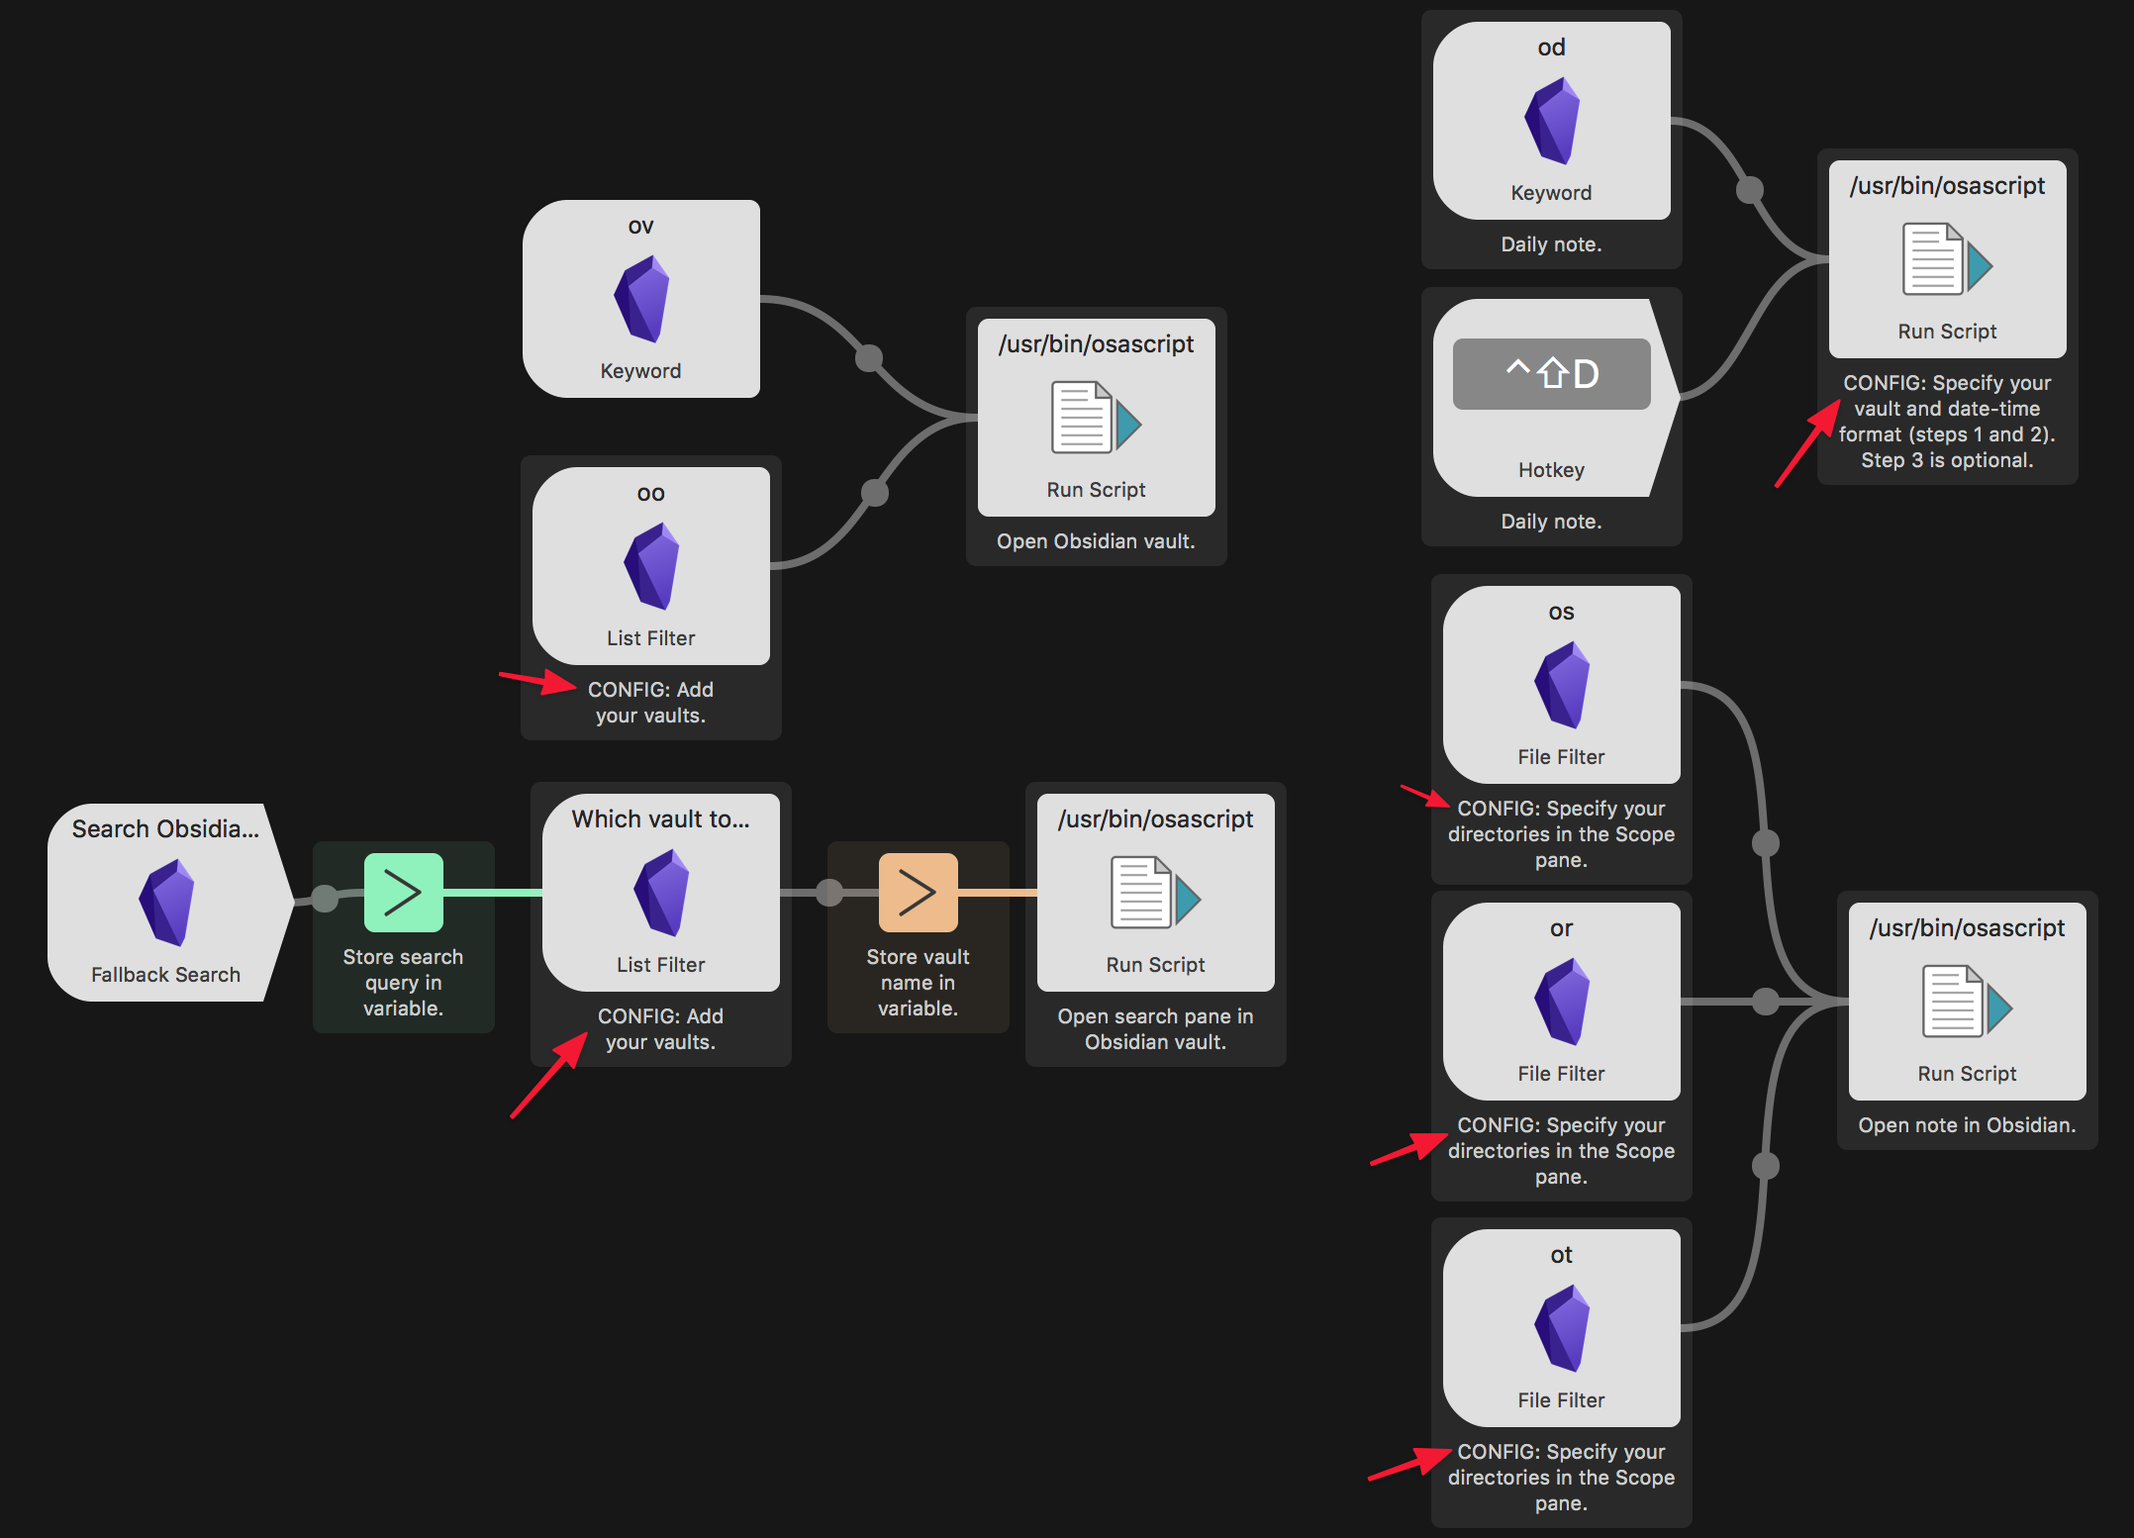
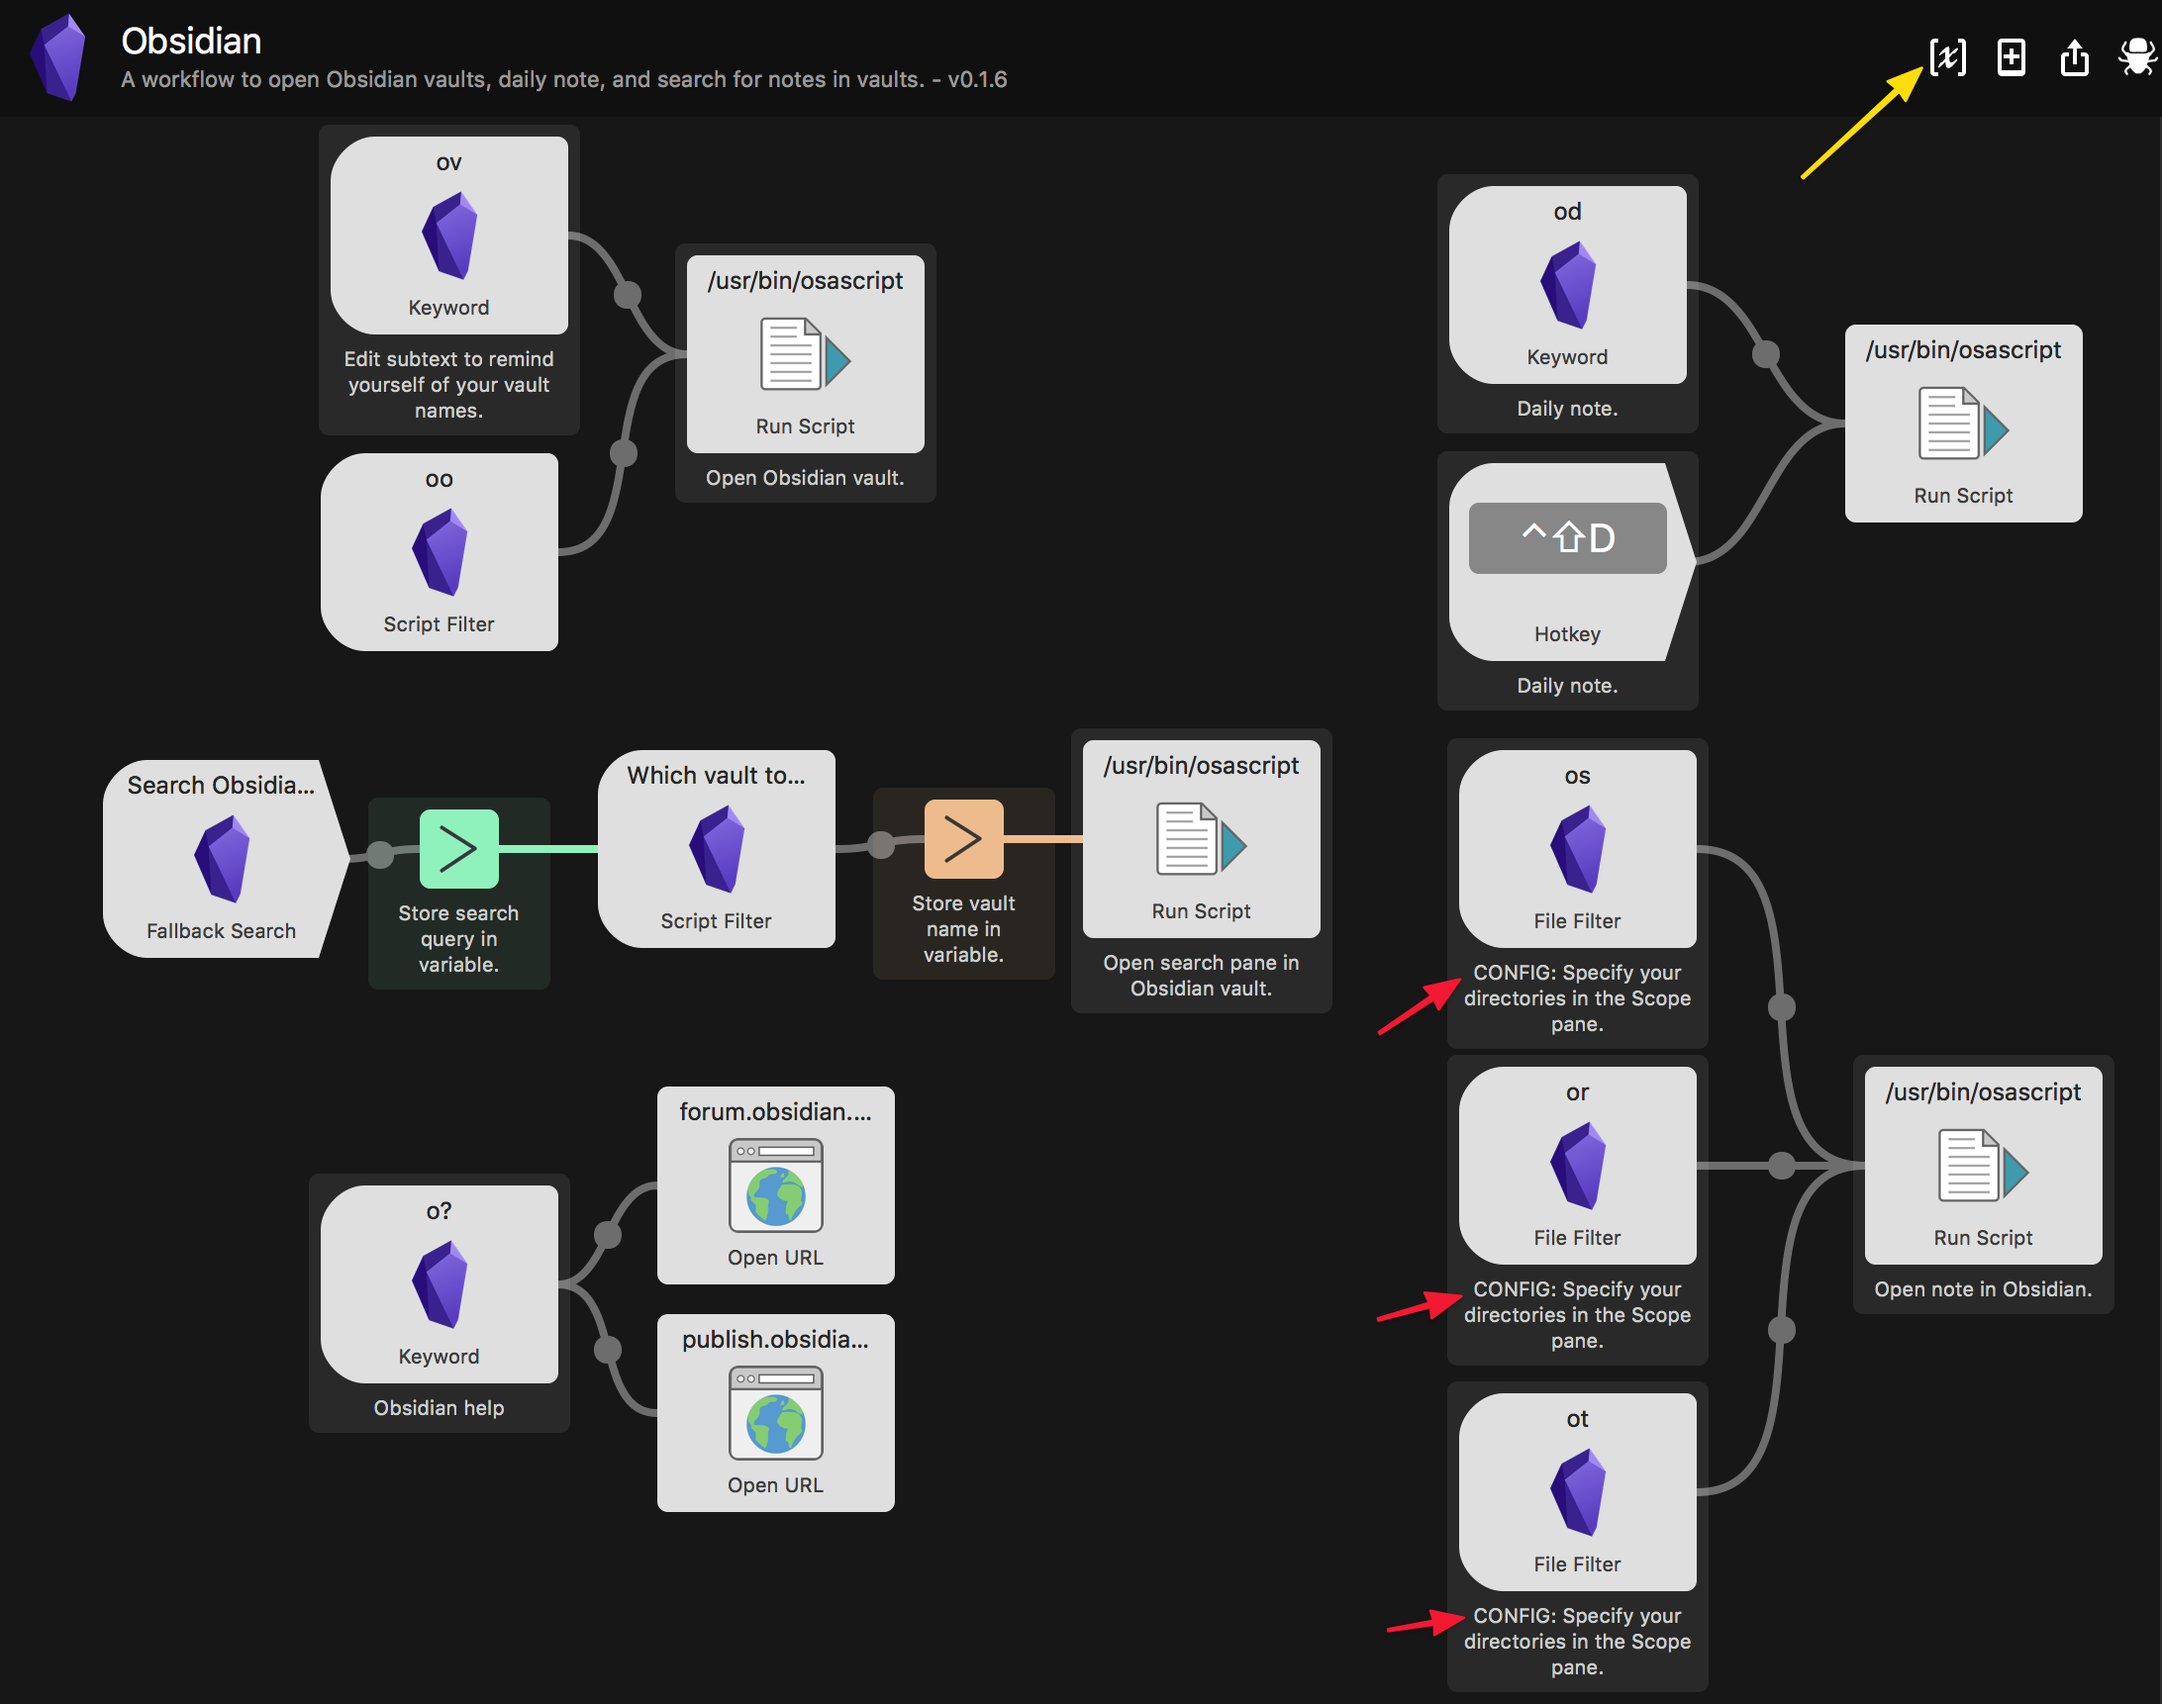
update readme

diff --git a/README.md b/README.md
@@ -4,18 +4,16 @@
 
 # Alfred workflow for Obsidian
 
-This simple [Alfred](https://www.alfredapp.com/) workflow uses [Obsidian](https://obsidian.md/)'s [URI scheme](https://publish.obsidian.md/help/Advanced+use/Using+obsidian+URI) (available in version 0.8.15 and above) and JXA actions/scripts (thanks to [@hjklapp](https://github.com/hjklapp)) to open notes in their vaults. This workflow has been tested in Obsidian 0.9.7.
+This simple [Alfred](https://www.alfredapp.com/) workflow uses [Obsidian](https://obsidian.md/)'s [URI scheme](https://publish.obsidian.md/help/Advanced+use/Using+obsidian+URI) (available in version 0.8.15 and above) and JXA actions/scripts (thanks to [@hjklapp](https://github.com/hjklapp)) to open notes in their vaults. This workflow has been tested in Obsidian 0.9.16.
 
 Available Alfred features/keywords (contributors in parentheses)
 - Open a vault: `ov`,`oo` ([@hjklapp](https://github.com/hjklapp))
 - Search in vault(s): `os`, `or`, `ot`
 - Open a daily note in a vault: `od` ([@technicalpickles](https://github.com/technicalpickles), [@luckman212](https://github.com/luckman212))
 - Fallback search when there are no results ([@technicalpickles](https://github.com/technicalpickles))
+- Get help by opening [help vault](https://publish.obsidian.md/help/Index) and [forum](https://forum.obsidian.md/): `o?` 
 
-Future features
-- Use workflow/environment variables to save vault names, daily note vault, date-time format etc., so there's no need to configure/edit the osascripts. See [issue](https://github.com/hauselin/obsidian-alfred/issues/8#issue-747087640). Will replace Alfred file filters with script filters.
-
-# Installation
+## Installation
 
 Download the [Obsidian.alfredworkflow](https://github.com/hauselin/obsidian-alfred/raw/master/Obsidian.alfredworkflow) file. Add to Alfred and enjoy the workflow! Only tested in Alfred 4.
 
@@ -23,32 +21,32 @@ Download the [Obsidian.alfredworkflow](https://github.com/hauselin/obsidian-alfr
 
 ### Open a vault: `ov`
 
-To open one of your many Obsidian vaults, type `ov your_vault_name`. You can change the keyword input subtext to remind yourself of the names of your vaults. Double-click **ov Keyword** to change the Subtext field.
+To open one of your many Obsidian vaults, type `ov your_vault_name`. If you vault name is `my notes`, you type `ov my notes`. You can change the keyword input subtext to remind yourself of the names of your vaults. Double-click **ov Keyword** to change the Subtext field.
 
-## Features that require some simple setting up
+## Features that require some basic setting up
 
-If you see **CONFIG** anywhere in the workflow, it means you need to modify that part of the workflow slightly to set things up.
+When you first install the workflow, you'll the pane below. The README section on the left tells you how to set up your workflow environment variables (on the right). 
+
+- **Vaults**: If you have three vaults (e.g., vault names are *notes*, *secrets*, *jokes*), you should have three vault variables named `vault1`, `vault2`, `vault3`, with values *notes*, *secrets*, *jokes*. 
+- **Daily note** (`od` keyword): See README for full documentation of the four variables `dailyabspath`, `dailyformat`, `dailytempabspath`, `dailyvault`.
+
+![](img/var.png)
+
+To reopen the pane, click the `[x]` icon at the top right (see yellow arrow below). If you see **CONFIG** (red arrows) anywhere in the workflow, it means you need to modify that part of the workflow.
 
 ![](img/config.png)
 
 ### Open a vault with autocomplete: `oo`
 
-To autofill and autocomplete Obsidian vaults: Type `oo your_vault_name`. 
-- Double-click **oo List Filter** to add all your vaults. See screenshots below.
-- This feature is suggested by [@hjklapp](https://github.com/hjklapp).
+To autofill and autocomplete Obsidian vaults (suggested by [@hjklapp](https://github.com/hjklapp)): Type `oo your_vault_name`
 
 ![](img/oo.gif)
-![](img/oo.png)
+
 
 ### Open daily note: `od`
 
 - The Daily notes Obsidian plugin must be enabled.
-- Notes and comments are provided in the workflow/script to help you set things up. Double-click the **/usr/bin/osascript Run Script** associated with **od Keyword** to set it up. You need to specify your daily note date format (step 1 in script) and the vault name (step 2 in script). Click Save when you're done.
-    - New in v0.1.3: Specify your date format in the /usr/bin/osacript by using yyyy, mm, dd. See screenshot below (steps 1 and 2).
-    - New in v0.1.5: Create a new daily note if it doesn't exist yet (see step 3, OPTIONAL step). Specify the absolute path to the directory (`fulldir_daily`) containing your daily notes; specify the template path (if you have a template) for your daily note (`fullpath_template`). If you don't specify these paths properly, Obsidian won't find your daily note and won't create it if the note doesn't exist yet.
-      - This feature addresses this [issue](https://github.com/hauselin/obsidian-alfred/issues/6), where you get the "File not found message." if your daily note doesn't exist.
-
-![](img/odaily.png)
+- `od` will open your daily note, assuming you've set up your workflow environment variable correctly (instructions above). Alternatively, you can use a hotkey.
 
 ### Search Obsidian vaults with Alfred File Filters; `os`, `or`, `ot`
 
@@ -64,19 +62,14 @@ You'll have to edit the Scope of each File Filter to tell Alfred where to search
 
 ### Alfred fallback search
 
-New in v0.1.5. Alfred supports [fallback searches](https://www.alfredapp.com/help/features/default-results/fallback-searches/) (i.e., "Fallback searches are the list of search options you see when you search for a keyword that doesn't match a result on your local Mac."; see screenshot below). 
+New in v0.1.5. Supports Alfred [fallback searches](https://www.alfredapp.com/help/features/default-results/fallback-searches/) (i.e., "Fallback searches are the list of search options you see when you search for a keyword that doesn't match a result on your local Mac."; see screenshot below). Thanks [@technicalpickles](https://github.com/technicalpickles) for suggesting this feature.
 
 ![](img/fallback.png)
 
 When a fallback search is invoked, the workflow will ask which vault you want to search in. To set it up, follow these steps: 
 
-- Specify the vaults Alfred will suggest (as with the `oo` list filter).
+- Go to Alfred's Features pane, click **Setup fallback results**, click the **+** icon, add a **Workflow Trigger**, add **Search Obsidian for {query}**, reorder the fallback searches however you like, and click **Save**.
 
-- Go to Alfred's Features pane, click Setup fallback results, click the + icon, add a Workflow Trigger, add Search Obsidian for {query}, reorder the fallback searches however you like, and click Save.
-
-  
-
-  ![](img/fallback1.png)
 
 ![](img/fallback2.gif)
 
